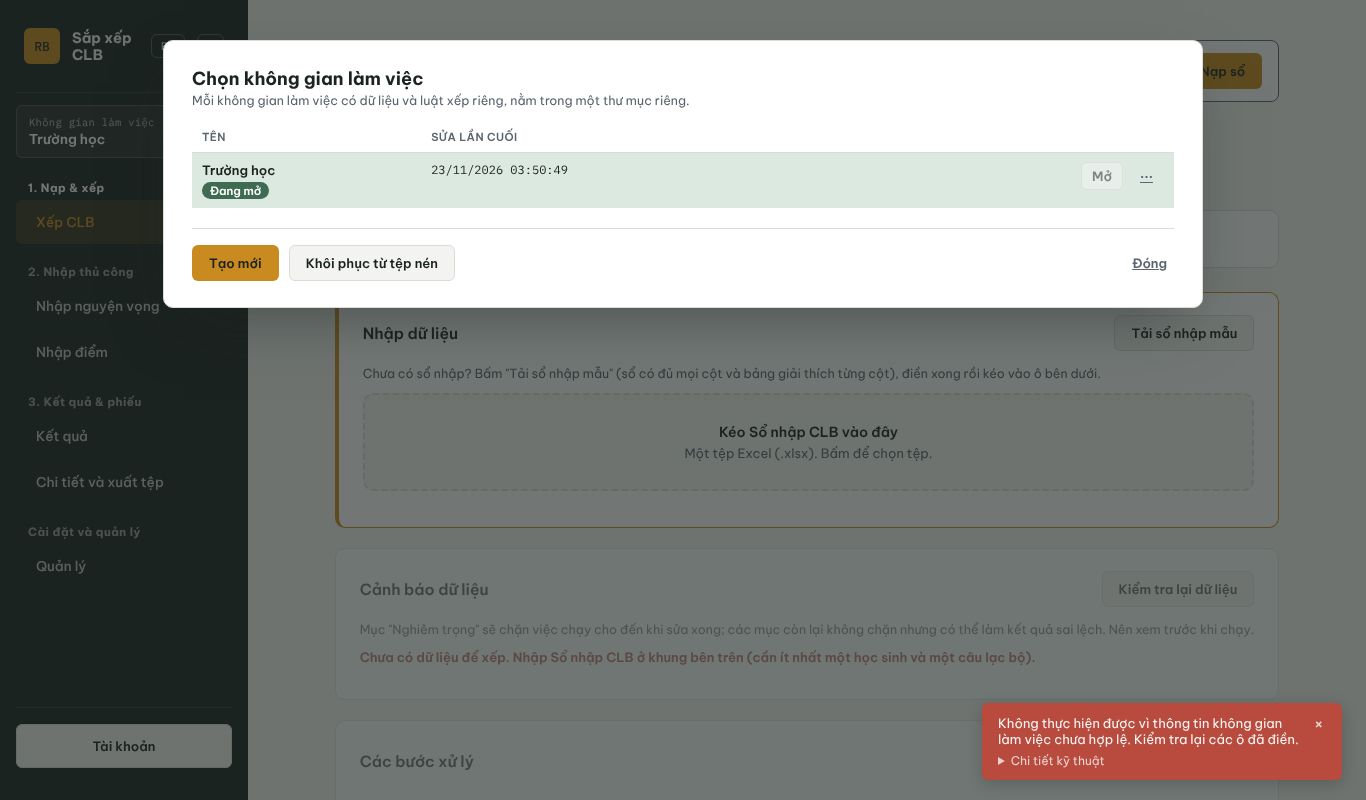
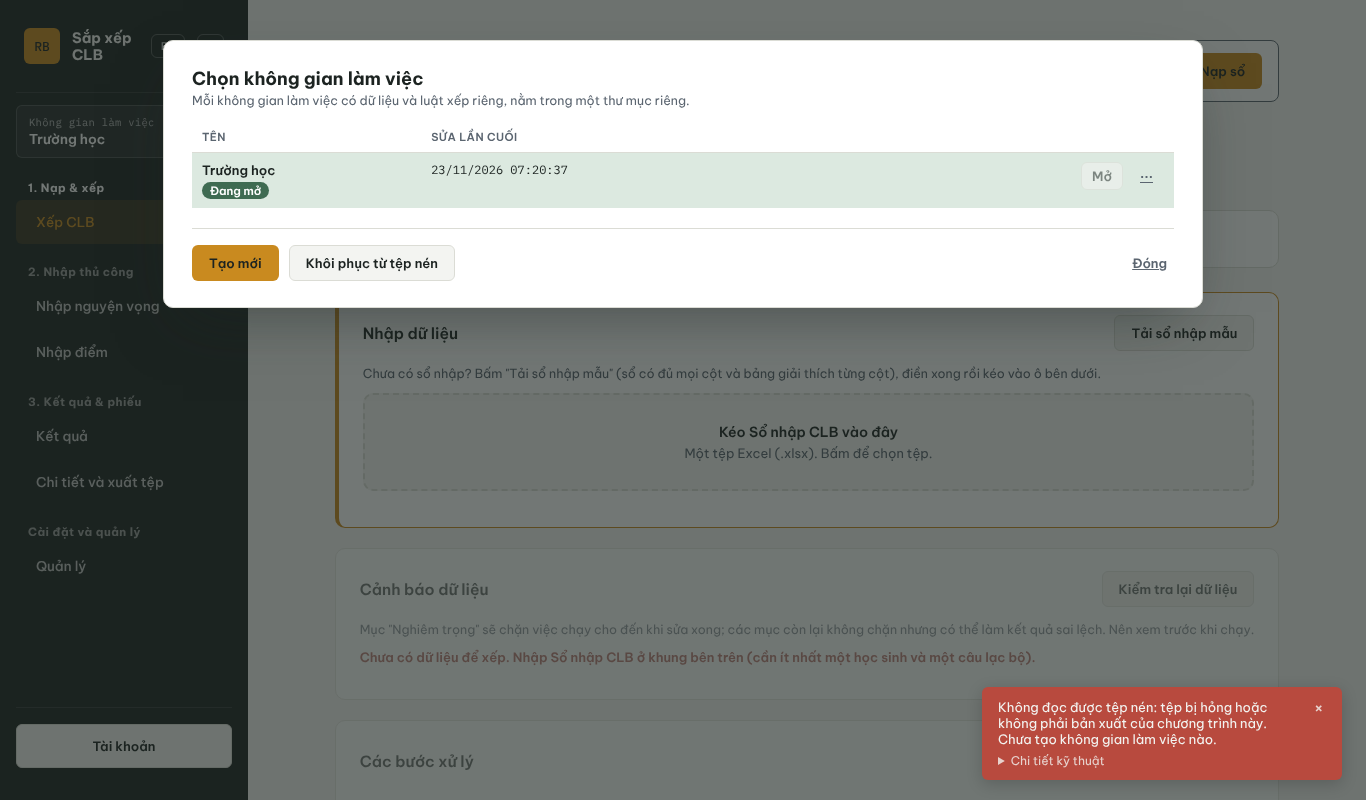
SF-B: bo chu zip khoi giao dien tieng Viet (CI test_giao_dien_tieng_viet_sach)
Claude-Session: https://claude.ai/code/session_01TGThn6cKdSeaQdbqWhwc4y

Changed region(s): [[0.7072, 0.8438, 0.9839, 0.9375]]

diff --git a/i18n.js b/i18n.js
@@ -824,7 +824,7 @@
       ws_nhan_ban_kem: "Kèm dữ liệu",
       ws_khong_xoa_dang_mo: "Đang mở không gian làm việc này nên chưa xoá được. Hãy mở không gian làm việc khác trước.",
       ws_chi_nhan_zip: "Chỉ nhận tệp nén do chương trình này xuất ra.",
-      ws_nhap_zip_loi: "Không đọc được tệp zip: tệp bị hỏng hoặc không phải bản xuất của chương trình này. Chưa tạo không gian làm việc nào.",
+      ws_nhap_zip_loi: "Không đọc được tệp nén: tệp bị hỏng hoặc không phải bản xuất của chương trình này. Chưa tạo không gian làm việc nào.",
       ws_da_mo: "Đã mở không gian làm việc \"{ten}\".",
       ws_da_tao: "Đã tạo không gian làm việc \"{ten}\".",
       ws_da_doi_ten: "Đã đổi tên thành \"{ten}\".",

diff --git a/tests/test_giao_dien_sf_b_lo2.py b/tests/test_giao_dien_sf_b_lo2.py
@@ -58,7 +58,7 @@ def test_st_b_011_zip_hong_noi_dung_nguyen_nhan(trang, api, monkeypatch):
     page.evaluate("""() => wsNhapZip({files: [new File([new Uint8Array(4)], 'hong.zip')], value: ''})""")
     page.wait_for_selector("#toastStack .toast, #toastStack > *")
     hien = page.evaluate("document.getElementById('toastStack').innerText")
-    assert "zip" in hien.lower() and "các ô đã điền" not in hien, hien
+    assert ("nén" in hien.lower() or "zip" in hien.lower()) and "các ô đã điền" not in hien, hien
     assert not loi, loi
 
 
